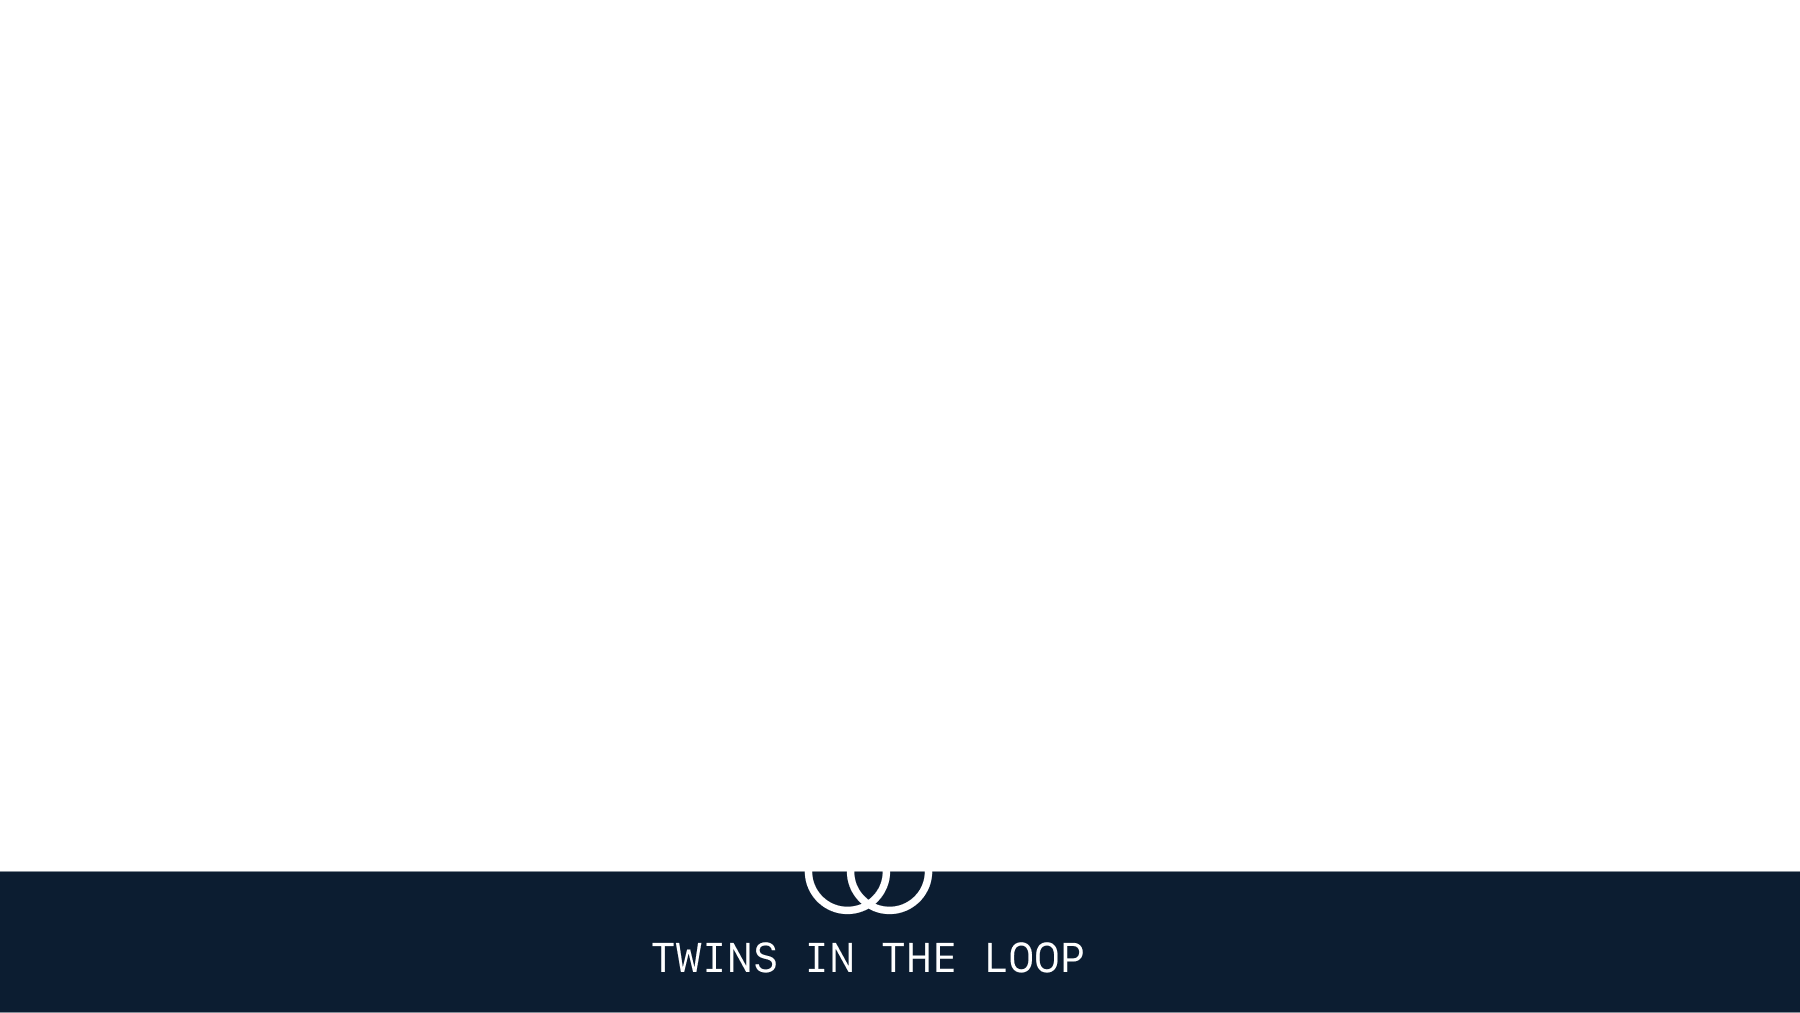
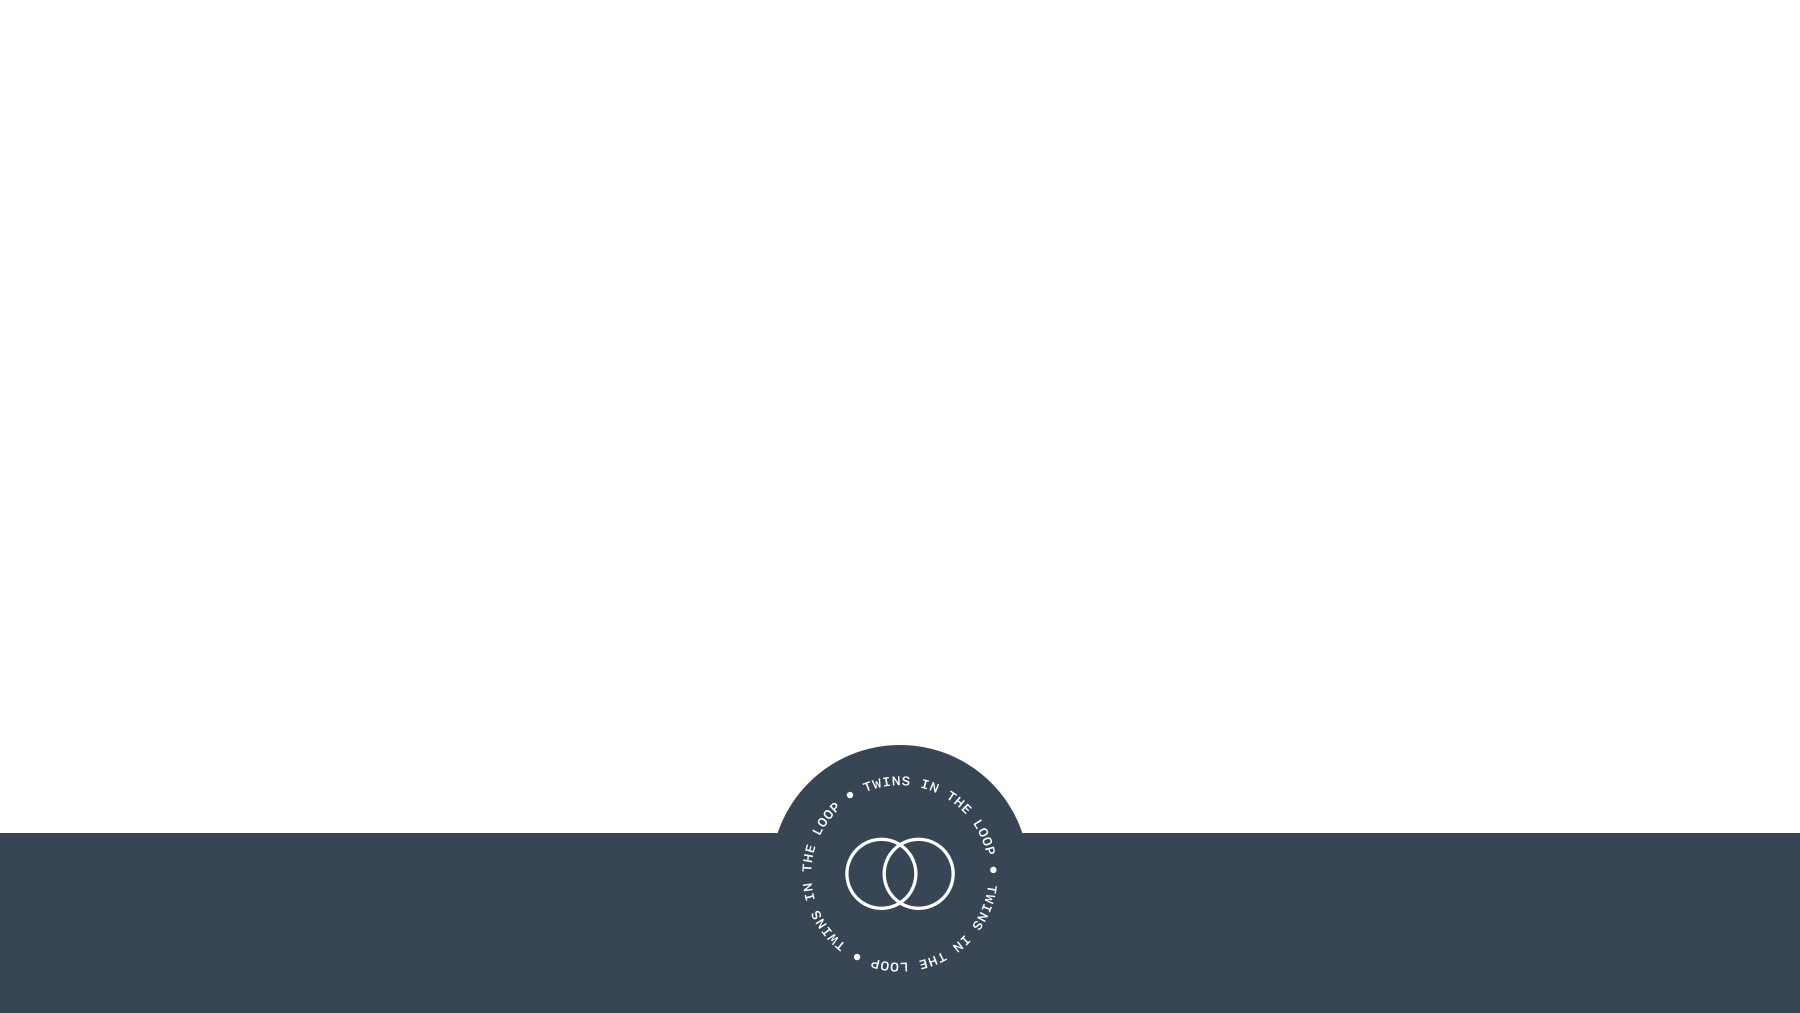
revert: keep the existing article frame overlay

Changed region(s): [[0.0, 0.7345, 1.0, 1.0]]

diff --git a/src/lib/ogImage.test.ts b/src/lib/ogImage.test.ts
@@ -47,7 +47,7 @@ describe('composeOgImage', () => {
 
     const raw = await image.removeAlpha().raw().toBuffer();
     expect(isClose(rgb(raw, 600, 40), [220, 40, 40])).toBe(true);
-    expect(isClose(rgb(raw, 100, OG_IMAGE_HEIGHT - 25), [12, 29, 49])).toBe(
+    expect(isClose(rgb(raw, 100, OG_IMAGE_HEIGHT - 25), [56, 69, 85])).toBe(
       true,
     );
   });
